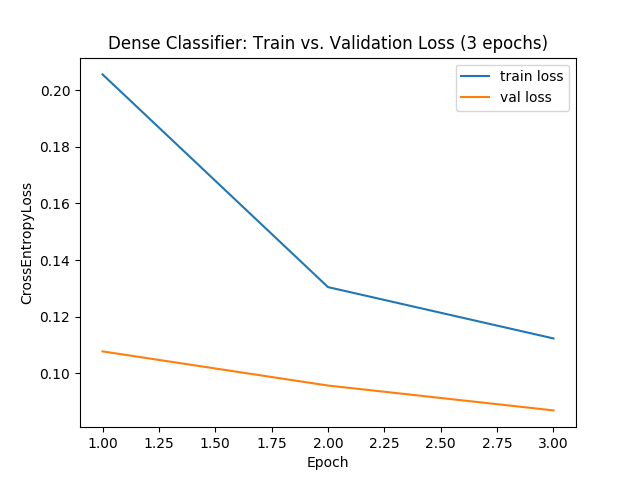
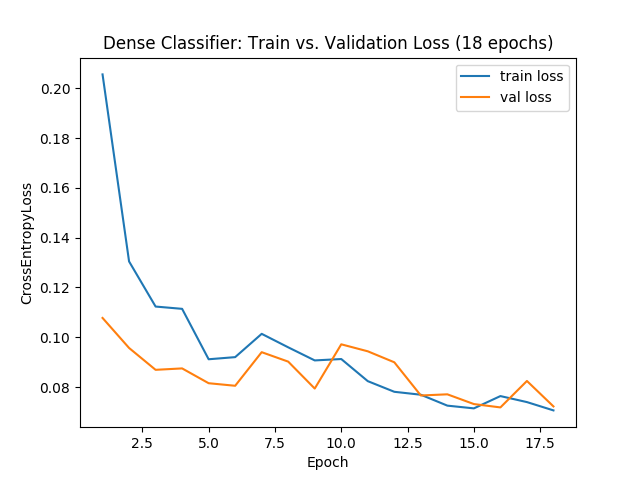
update with 18 epoch results

diff --git a/README.md b/README.md
@@ -4,32 +4,43 @@
 
 This project implements the zoom-out feature approach to semantic segmentation with Convolutional Neural Networks as laid out by [Mostajabi et al. (2015)](https://www.cv-foundation.org/openaccess/content_cvpr_2015/papers/Mostajabi_Feedforward_Semantic_Segmentation_2015_CVPR_paper.pdf).
 
-With limited access to GPU hardware, this project simplifies upon the paper's approach in at least one key way. Instead of averaging hypercolumns over superpixels, I randomly sample a few (3) pixel-wise hypercolumns for use in the shallow classifier. Implementing superpixels is a likely next step for this project.
+With limited access to GPU hardware, this project simplifies upon the paper's approach in at least one key way. Instead of averaging hypercolumns over superpixels, I randomly sample a few (3) pixel-wise hypercolumns for use in the shallow classifier. Implementing superpixel-wise classification is a likely next step for this project.
 
 The data source for this project is the [xView2](https://xview2.org/) dataset of satellite imagery, originally provided as part of a challenge to predict the extent of natural disaster damage. Again, due to hardware limitations, I've split each 1024x1024 image into 16 separate 256x256 images.
 
-## Initial results
+## Results
+
+After 3 epochs of training:
 
 <p align="center">
     <img src="img/results_3epochs.png" /><br>
-    <i>From left to right: (1) input image, (2) input labels, (3) predicted segmentation</i>
+    <i>From left to right: (1) input image, (2) ground truth labels, (3) predicted segmentation</i>
 </p>
 
 From even just 3 epochs of training, the classifier does pretty well if it can segment on color, as in the top row. It misses out on finer details or densely-packed shapes, as with the second row. It also has trouble disambiguating buildings from roads or other brightly-colored features with high contrast to the ground near to them, as with the third row.
 
+*Edit:* after 18 epochs of training:
+
+<p align="center">
+    <img src="img/results_18epochs.png" /><br>
+    <i>From left to right: (1) input image, (2) ground truth labels, (3) predicted segmentation</i>
+</p>
+
+Compared to the results from 3 epochs, the segmentation process is slowly getting better at distinguishing boundaries between densely-packed shapes. Compare the results here to the second row above.
+
 Currently, my best results have been from using the following features and hyperparameters:
-- Zoomout features: using activations for all 13 convolutional layers in VGG16, giving a 4755-element feature vector for every pixel.
+- Zoomout features: using activations for all 13 convolutional layers in VGG16, giving a 4755-element feature vector (the literature calls these "hypercolumns") for every pixel.
 - Class weights for Cross Entropy Loss: Using inverse weights from the true distribution of `[0.05, 0.95]` for labels `[0, 1]` respectively
 - Optimizer: Adam with a learning rate of 0.001 and no learning rate decay
 - Hidden layer size: 1024 units
 - Shallow classifier is trained for 40 epochs, with a plateau in loss curves around the 20-epoch mark
-- Dense classifier is trained for 3 epochs. I will update this repo as I get more consecutive rounds of training in.
+- Dense classifier is trained for 18 epochs. I will update this repo as I get more consecutive rounds of training in.
 
 <p align="center">
     <img src="img/learning_curve_fc.png" width="400" height="300"/>
     <img src="img/learning_curve_seg.png" width="400" height="300"/>
     <br>
-    <i>Loss curves for the shallow classifier trained over 40 epochs (result of train_cls.py) and the dense classifier trained over 3 epochs (result of train_seg.py)</i>
+    <i>Loss curves for the shallow classifier trained over 40 epochs (result of train_cls.py) and the dense classifier trained over 18 epochs (result of train_seg.py)</i>
 </p>
 
 ## Technical Details
@@ -56,12 +67,12 @@ A full training sequence from scratch has 3 main steps:
 2. Run `train_cls.py` to train the fully-connected classifier on the intermediate features.
 3. Run `train_seg.py` to load pre-trained weights from the fully-connected classifier and use them to generate semantic segmentation predictions.
 
-Ona GeForce GTX 1080 Ti and the full dataset:
+On a GeForce GTX 1080 Ti and the full dataset:
 - `sampling.py` runs in 45 minutes
 - `train_cls.py` runs in 8 minutes (40 epochs)
-- `train_seg.py` runs in 4 hours (3 epochs - see below)
+- `train_seg.py` runs in 3.5 hours (3 epochs - see below)
 
-*Note:* I only had access to 4 hours of GPU training at one time, which is sufficient for about 3 full epochs for `train_seg.py`. I got around this by saving the model state after each run, and having the model load the saved state at the start of the next training run. You can do this by running `train_seg.py` with the `--load_saved_model` argument set to `True`. If set to `False`, the classifier will be trained from scratch.
+*Note:* I only had access to 4 hours of GPU training at one time, which is sufficient for about 3 full epochs for `train_seg.py`. I got around this by saving the model state after each run, and having the model load the saved state at the start of the next training run. You can do this by running `train_seg.py` with the `--load_saved_model` flag. If not included, the classifier will be trained from scratch.
 
 ### Hyperparameter and architecture tuning
 
